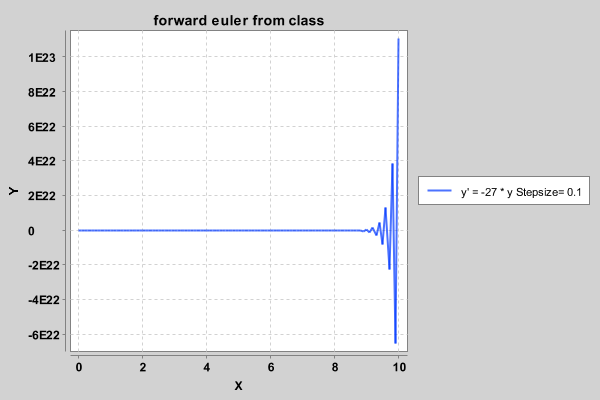
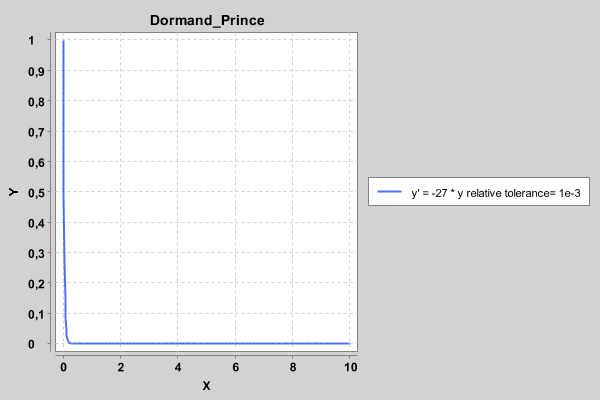
embedded rungekutta implemented.

diff --git a/src/examples/testPlot.java b/src/examples/testPlot.java
@@ -3,8 +3,8 @@ package examples;
 
 import java.io.IOException;
 
+import rungeKutta.EmbeddedRungeKutta;
 import rungeKutta.RungeKutta;
-import solvers.ForwardEuler;
 
 import com.xeiam.xchart.BitmapEncoder;
 import com.xeiam.xchart.BitmapEncoder.BitmapFormat;
@@ -25,8 +25,10 @@ public class testPlot {
 		 double t_end = 10;
 		 
 		 DifferentialEquation equation = new Exp_DE(lambda);
-		 ForwardEuler solver = new ForwardEuler(equation);
-		 solver.run(y_0, t_0, t_end, stepSize);	
+		 
+		 //Dorman_Prince
+		 EmbeddedRungeKutta solver = new EmbeddedRungeKutta("ode45",equation);
+		 solver.run(y_0, t_0, t_end);	
 		 
 		 //forward euler
 		 double[][] A = new double[][]{{0}};
@@ -51,6 +53,7 @@ public class testPlot {
 				 			{0.5,	0,		0,		0	},
 				 			{0,		0.5,	0,		0	},
 				 			{0,		0,		1,		0	}};
+		 
 		 b = new double[]	{1./6	,2./6,	2./6,	1./6};
 		 c = new double[]	{0		,0.5,	0.5,	1};
 		 RungeKutta solver4 = new RungeKutta(A, b, c);
@@ -58,16 +61,18 @@ public class testPlot {
 		 solver4.setEquation(equation);
 		 solver4.run(y_0, t_0, t_end, stepSize);
 		 
-		 double[] xData = solver.t_values;
-		 double[] yData = solver.y_values;
+		 // get plot data
+		 double[] xData = solver.getT_values();
+		 double[] yData = solver.getY_values(0);
 		 double[] xData2 = solver2.getT_values();
 		 double[] yData2 = solver2.getY_values(0);
 		 double[] xData3 = solver3.getT_values();
 		 double[] yData3 = solver3.getY_values(0);
 		 double[] xData4 = solver4.getT_values();
 		 double[] yData4 = solver4.getY_values(0);
+		 
 		    // Create Chart
-		    Chart chart = QuickChart.getChart("forward euler from class", "X", "Y", "y' = -27 * y Stepsize= 0.1", xData, yData);
+		    Chart chart = QuickChart.getChart("Dormand_Prince", "X", "Y", "y' = -27 * y relative tolerance= 1e-3", xData, yData);
 		    Chart chart2 = QuickChart.getChart("forward euler", "X", "Y", "y' = -27 * y Stepsize= 0.1", xData2, yData2);
 		    Chart chart3 = QuickChart.getChart("Heun", "X", "Y", "y' = -27 * y Stepsize= 0.1", xData3, yData3);
 		    Chart chart4 = QuickChart.getChart("RK4 (Simpson)", "X", "Y", "y' = -27 * y Stepsize= 0.1", xData4, yData4); 

diff --git a/src/rungeKutta/RungeKutta.java b/src/rungeKutta/RungeKutta.java
@@ -47,16 +47,21 @@ public class RungeKutta
 	
 	public void run(double[] y_0, double t_0, double t_end, double stepSize)
 	{ 
-		int stepsCount = (int)(Math.abs((t_end-t_0)/stepSize + 1));
+		int stepsCount = (int) Math.floor( Math.abs( (t_end-t_0)/stepSize) );
+		if (Math.abs(stepsCount) < 1) 
+		{
+			stepsCount = 1;
+			stepSize = Math.abs(t_end-t_0);
+		}
 		int s = b.length;
 
-		y_values = new double[stepsCount][y_0.length];
-		t_values = new double[stepsCount];
+		y_values = new double[stepsCount+1][y_0.length];
+		t_values = new double[stepsCount+1];
 		t_values[0] = t_0;
 		y_values[0] = y_0;
 		double h = Math.signum(t_end-t_0)*stepSize;
 		
-		for (int i = 0; i< stepsCount-1 ; i++)
+		for (int i = 0; i< stepsCount; i++)
 		{
 			double t = t_values[i]; 
 			double y[] = y_values[i];
